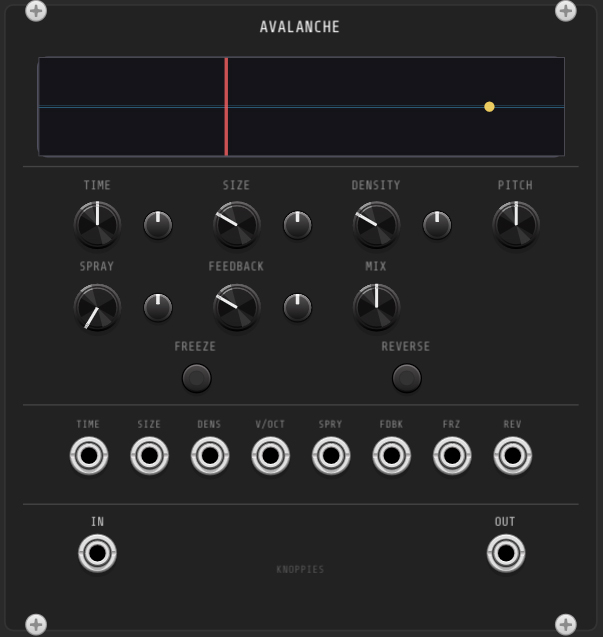
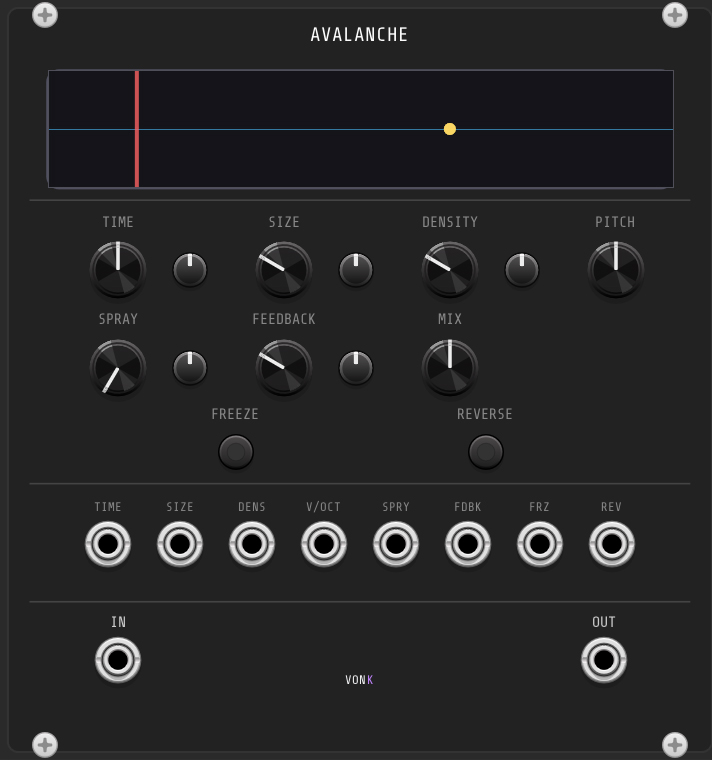
Changed to vonk and added new modules

diff --git a/index.html b/index.html
@@ -3,7 +3,7 @@
 <head>
   <meta charset="UTF-8" />
   <meta name="viewport" content="width=device-width, initial-scale=1.0" />
-  <title>Knoppies — VCV Rack Modules</title>
+  <title>Vonk — VCV Rack Modules</title>
   <style>
     *, *::before, *::after { box-sizing: border-box; margin: 0; padding: 0; }
 
@@ -103,7 +103,8 @@
     main {
       max-width: 1100px;
       margin: 0 auto;
-      padding: 3rem 2rem 5rem;
+      padding: 3rem 1.25rem 5rem;
+      width: 100%;
     }
 
     .section-label {
@@ -118,6 +119,7 @@
       display: grid;
       grid-template-columns: repeat(auto-fill, minmax(min(460px, 100%), 1fr));
       gap: 1.5rem;
+      width: 100%;
     }
 
     /* ── Card ── */
@@ -131,6 +133,7 @@
       gap: 1rem;
       transition: border-color 0.2s, box-shadow 0.2s;
       min-width: 0;
+      max-width: 100%;
     }
 
     .card:hover {
@@ -193,6 +196,31 @@
 
     .github-link svg {
       flex-shrink: 0;
+    }
+
+    .alpha-badge {
+      display: inline-flex;
+      align-items: center;
+      gap: 0.35rem;
+      font-size: 0.72rem;
+      font-weight: 600;
+      letter-spacing: 0.06em;
+      text-transform: uppercase;
+      color: #f59e0b;
+      background: #f59e0b18;
+      border: 1px solid #f59e0b44;
+      border-radius: 6px;
+      padding: 0.25rem 0.65rem;
+    }
+
+    .alpha-notice {
+      font-size: 0.82rem;
+      color: #f59e0b;
+      background: #f59e0b0e;
+      border: 1px solid #f59e0b33;
+      border-radius: 6px;
+      padding: 0.5rem 0.75rem;
+      line-height: 1.5;
     }
 
     .card-image {
@@ -448,7 +476,7 @@
 
   <header>
     <div class="header-inner">
-      <div class="brand">Knopp<span>ies</span></div>
+      <div class="brand">Von<span>k</span></div>
       <div class="tagline">VCV Rack Plugins</div>
       <div class="rack-badge">Rack 2 Compatible</div>
       <nav class="site-nav">
@@ -459,7 +487,7 @@
   </header>
 
   <main>
-    <p class="section-label" id="modules">Modules — 4 available</p>
+    <p class="section-label" id="modules">Modules — 6 available</p>
 
     <div class="modules-grid">
 
@@ -470,6 +498,7 @@
           <div class="module-name">Avalanche</div>
           <div class="card-header-right">
             <div class="module-type">Granular Delay</div>
+            <span class="alpha-badge">⚠ Alpha</span>
             <a class="github-link" href="https://github.com/grant-pie/avalanche" target="_blank" rel="noopener">
               <svg width="13" height="13" viewBox="0 0 16 16" fill="currentColor"><path d="M8 0C3.58 0 0 3.58 0 8c0 3.54 2.29 6.53 5.47 7.59.4.07.55-.17.55-.38 0-.19-.01-.82-.01-1.49-2.01.37-2.53-.49-2.69-.94-.09-.23-.48-.94-.82-1.13-.28-.15-.68-.52-.01-.53.63-.01 1.08.58 1.23.82.72 1.21 1.87.87 2.33.66.07-.52.28-.87.51-1.07-1.78-.2-3.64-.89-3.64-3.95 0-.87.31-1.59.82-2.15-.08-.2-.36-1.02.08-2.12 0 0 .67-.21 2.2.82.64-.18 1.32-.27 2-.27.68 0 1.36.09 2 .27 1.53-1.04 2.2-.82 2.2-.82.44 1.1.16 1.92.08 2.12.51.56.82 1.27.82 2.15 0 3.07-1.87 3.75-3.65 3.95.29.25.54.73.54 1.48 0 1.07-.01 1.93-.01 2.2 0 .21.15.46.55.38A8.013 8.013 0 0016 8c0-4.42-3.58-8-8-8z"/></svg>
               GitHub
@@ -477,6 +506,7 @@
           </div>
         </div>
         <div class="card-body">
+          <p class="alpha-notice">This module is currently in alpha. Expect bugs and breaking changes — feedback and bug reports are welcome via GitHub.</p>
           <p class="module-desc">
             Captures incoming audio into a buffer and plays it back as a cloud of overlapping grains.
             Each grain has its own envelope, enabling textures that range from subtle thickening to
@@ -708,6 +738,124 @@
         </div>
       </div>
 
+      <!-- Barrage -->
+      <div class="card">
+        <img class="card-image" src="assets/barrage.jpg" alt="Barrage module" />
+        <div class="card-header">
+          <div class="module-name">Barrage</div>
+          <div class="card-header-right">
+            <div class="module-type">Burst Sequencer</div>
+            <a class="github-link" href="https://github.com/grant-pie/Barrage" target="_blank" rel="noopener">
+              <svg width="13" height="13" viewBox="0 0 16 16" fill="currentColor"><path d="M8 0C3.58 0 0 3.58 0 8c0 3.54 2.29 6.53 5.47 7.59.4.07.55-.17.55-.38 0-.19-.01-.82-.01-1.49-2.01.37-2.53-.49-2.69-.94-.09-.23-.48-.94-.82-1.13-.28-.15-.68-.52-.01-.53.63-.01 1.08.58 1.23.82.72 1.21 1.87.87 2.33.66.07-.52.28-.87.51-1.07-1.78-.2-3.64-.89-3.64-3.95 0-.87.31-1.59.82-2.15-.08-.2-.36-1.02.08-2.12 0 0 .67-.21 2.2.82.64-.18 1.32-.27 2-.27.68 0 1.36.09 2 .27 1.53-1.04 2.2-.82 2.2-.82.44 1.1.16 1.92.08 2.12.51.56.82 1.27.82 2.15 0 3.07-1.87 3.75-3.65 3.95.29.25.54.73.54 1.48 0 1.07-.01 1.93-.01 2.2 0 .21.15.46.55.38A8.013 8.013 0 0016 8c0-4.42-3.58-8-8-8z"/></svg>
+              GitHub
+            </a>
+          </div>
+        </div>
+        <div class="card-body">
+          <p class="module-desc">
+            A 16-step sequencer where each step is a self-contained burst generator. Instead of
+            a single gate per clock, each step fires a burst of evenly-spaced gates with independent
+            control over count, length, probability, and speed relative to the clock.
+          </p>
+          <div class="feature-list">
+            <span class="tag">16 Steps</span>
+            <span class="tag">Per-Step Burst</span>
+            <span class="tag">Count 1–16</span>
+            <span class="tag">Probability</span>
+            <span class="tag">Speed 0.25×–4×</span>
+            <span class="tag">Per-Step Gate Outputs</span>
+            <span class="tag">EOC per Step</span>
+            <span class="tag">Step CV Out</span>
+            <span class="tag">Forward / Reverse</span>
+          </div>
+        </div>
+        <div class="card-footer">
+          <div class="io-row">
+            <div class="io-group">
+              <span class="io-label">Controls</span>
+              <div class="io-items">
+                <span class="io-item">Count</span>
+                <span class="io-item">Length</span>
+                <span class="io-item">Prob</span>
+                <span class="io-item">Speed</span>
+                <span class="io-item">Steps</span>
+                <span class="io-item">Dir</span>
+              </div>
+            </div>
+            <div class="io-group">
+              <span class="io-label">Inputs</span>
+              <div class="io-items">
+                <span class="io-item">CLK</span>
+                <span class="io-item">RST</span>
+              </div>
+            </div>
+            <div class="io-group">
+              <span class="io-label">Outputs</span>
+              <div class="io-items">
+                <span class="io-item">Gate 1–16</span>
+                <span class="io-item">EOC 1–16</span>
+                <span class="io-item">EOC</span>
+                <span class="io-item">Step CV</span>
+              </div>
+            </div>
+          </div>
+        </div>
+      </div>
+
+      <!-- Tenuto -->
+      <div class="card">
+        <img class="card-image" src="assets/tenuto.jpg" alt="Tenuto module" />
+        <div class="card-header">
+          <div class="module-name">Tenuto</div>
+          <div class="card-header-right">
+            <div class="module-type">Utility</div>
+            <a class="github-link" href="https://github.com/grant-pie/Tenuto" target="_blank" rel="noopener">
+              <svg width="13" height="13" viewBox="0 0 16 16" fill="currentColor"><path d="M8 0C3.58 0 0 3.58 0 8c0 3.54 2.29 6.53 5.47 7.59.4.07.55-.17.55-.38 0-.19-.01-.82-.01-1.49-2.01.37-2.53-.49-2.69-.94-.09-.23-.48-.94-.82-1.13-.28-.15-.68-.52-.01-.53.63-.01 1.08.58 1.23.82.72 1.21 1.87.87 2.33.66.07-.52.28-.87.51-1.07-1.78-.2-3.64-.89-3.64-3.95 0-.87.31-1.59.82-2.15-.08-.2-.36-1.02.08-2.12 0 0 .67-.21 2.2.82.64-.18 1.32-.27 2-.27.68 0 1.36.09 2 .27 1.53-1.04 2.2-.82 2.2-.82.44 1.1.16 1.92.08 2.12.51.56.82 1.27.82 2.15 0 3.07-1.87 3.75-3.65 3.95.29.25.54.73.54 1.48 0 1.07-.01 1.93-.01 2.2 0 .21.15.46.55.38A8.013 8.013 0 0016 8c0-4.42-3.58-8-8-8z"/></svg>
+              GitHub
+            </a>
+          </div>
+        </div>
+        <div class="card-body">
+          <p class="module-desc">
+            A 4-channel variable gate length module. Takes gate or trigger inputs and re-emits
+            each as a gate of a fixed, independently-set length — from 1ms to 2 seconds.
+            Each channel retriggers cleanly on every rising edge.
+          </p>
+          <div class="feature-list">
+            <span class="tag">4 Channels</span>
+            <span class="tag">1ms – 2s Range</span>
+            <span class="tag">Retrigger</span>
+            <span class="tag">Shared Length CV</span>
+            <span class="tag">Trigger to Gate</span>
+            <span class="tag">Gate Shortening</span>
+            <span class="tag">8HP</span>
+          </div>
+        </div>
+        <div class="card-footer">
+          <div class="io-row">
+            <div class="io-group">
+              <span class="io-label">Controls</span>
+              <div class="io-items">
+                <span class="io-item">Len ×4</span>
+              </div>
+            </div>
+            <div class="io-group">
+              <span class="io-label">Inputs</span>
+              <div class="io-items">
+                <span class="io-item">In 1–4</span>
+                <span class="io-item">Length CV</span>
+              </div>
+            </div>
+            <div class="io-group">
+              <span class="io-label">Outputs</span>
+              <div class="io-items">
+                <span class="io-item">Out 1–4</span>
+              </div>
+            </div>
+          </div>
+        </div>
+      </div>
+
     </div>
 
     <section class="install-section">
@@ -749,7 +897,7 @@ cd &lt;module-name&gt;</pre>
             <span class="step-num">4</span>
             <div class="step-body">
               <div class="step-title">Launch VCV Rack</div>
-              <div class="step-desc">Start or restart VCV Rack. The module will appear in the module browser under <strong>Knoppies</strong>.</div>
+              <div class="step-desc">Start or restart VCV Rack. The module will appear in the module browser under <strong>Vonk</strong>.</div>
             </div>
           </div>
         </div>
@@ -758,7 +906,7 @@ cd &lt;module-name&gt;</pre>
   </main>
 
   <footer>
-    <p>© 2025 Grant Pieterse / Knoppies &nbsp;·&nbsp; Proprietary &nbsp;·&nbsp; <a href="https://vcvrack.com/" target="_blank" rel="noopener">VCV Rack</a></p>
+    <p>© 2025 Grant Pieterse / Vonk &nbsp;·&nbsp; Proprietary &nbsp;·&nbsp; <a href="https://vcvrack.com/" target="_blank" rel="noopener">VCV Rack</a></p>
   </footer>
 
 </body>

diff --git a/README.md b/README.md
@@ -1,6 +1,6 @@
-# Knoppies — VCV Rack Modules Website
+# Vonk — VCV Rack Modules Website
 
-A static website listing all VCV Rack modules released under the **Knoppies** brand by Grant Pieterse. Built with plain HTML and CSS — no frameworks, no build step.
+A static website listing all VCV Rack modules released under the **Vonk** brand by Grant Pieterse. Built with plain HTML and CSS — no frameworks, no build step.
 
 ## Modules
 
@@ -10,11 +10,13 @@ A static website listing all VCV Rack modules released under the **Knoppies** br
 | BitBoy | Oscillator | [grant-pie/BitBoy](https://github.com/grant-pie/BitBoy) |
 | MotherFuzzer | Distortion | [grant-pie/MotherFuzzer](https://github.com/grant-pie/MotherFuzzer) |
 | SubGate8 | Gate Sequencer | [grant-pie/SubGate8](https://github.com/grant-pie/SubGate8) |
+| Barrage | Burst Sequencer | [grant-pie/Barrage](https://github.com/grant-pie/Barrage) |
+| Tenuto | Utility | [grant-pie/Tenuto](https://github.com/grant-pie/Tenuto) |
 
 ## Project Structure
 
 ```
-knoppies/
+vonk/
 ├── index.html        # Single-page site
 ├── assets/
 │   ├── avalanche.jpg
@@ -43,4 +45,4 @@ npx serve .
 
 ## License
 
-Proprietary — © Grant Pieterse / Knoppies
+Proprietary — © Grant Pieterse / Vonk
